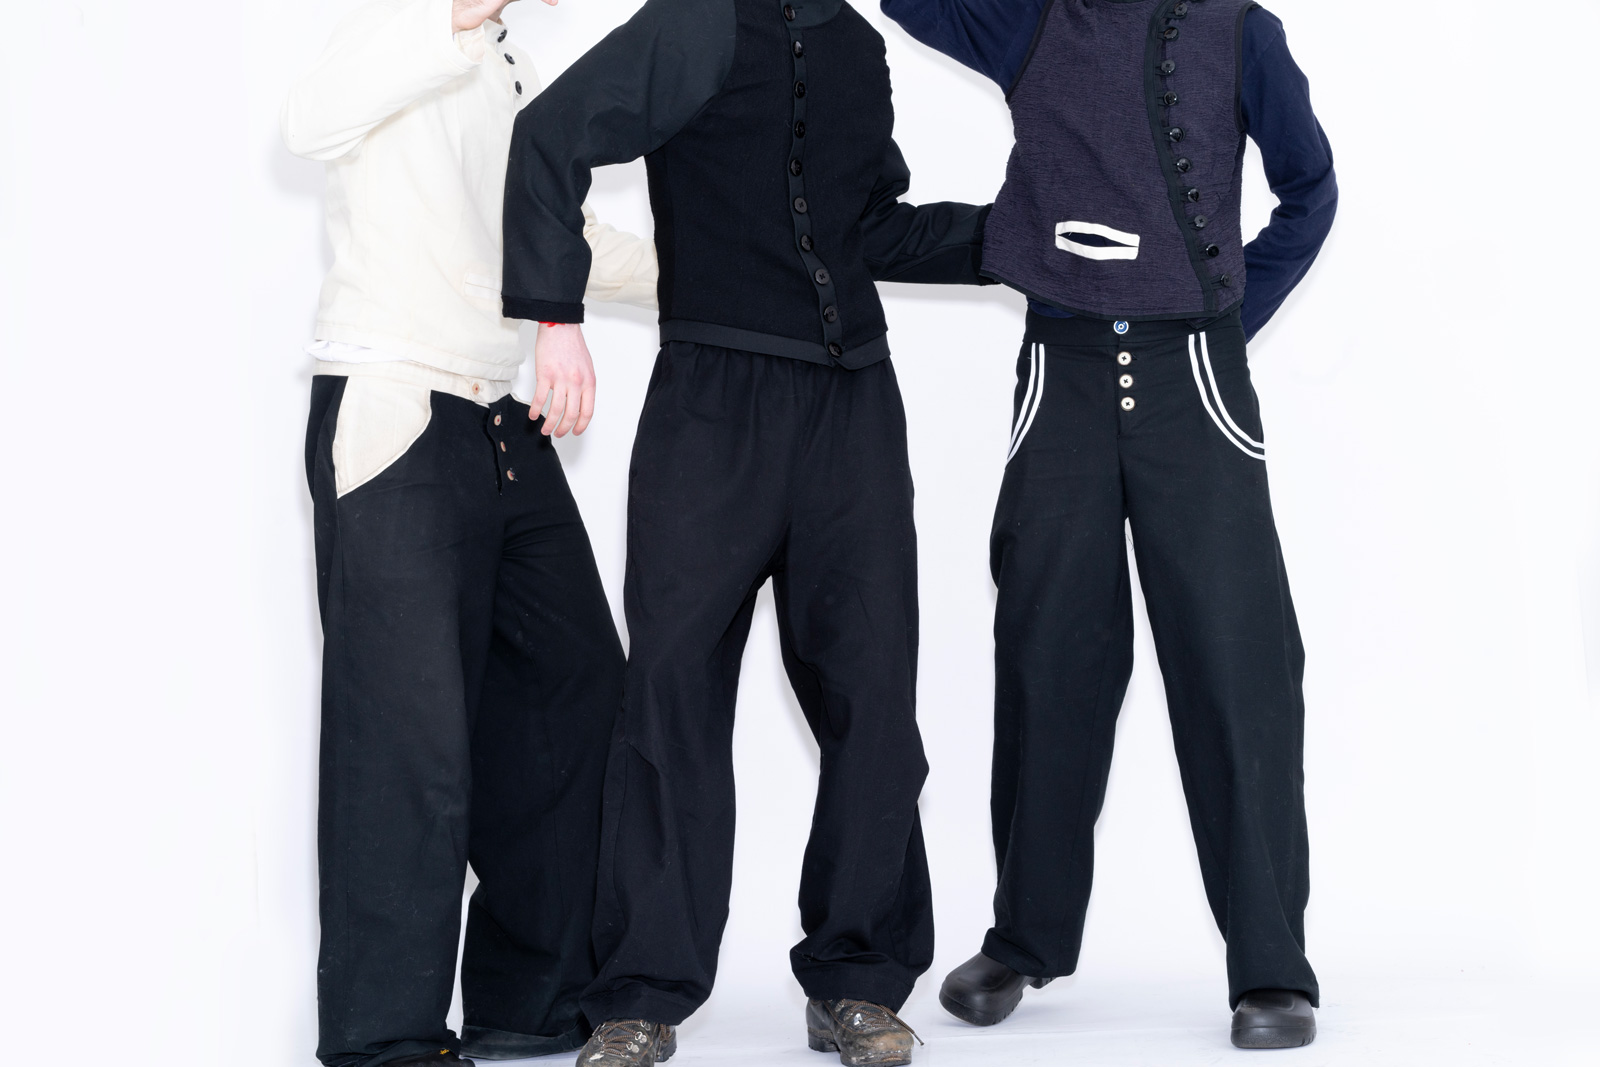
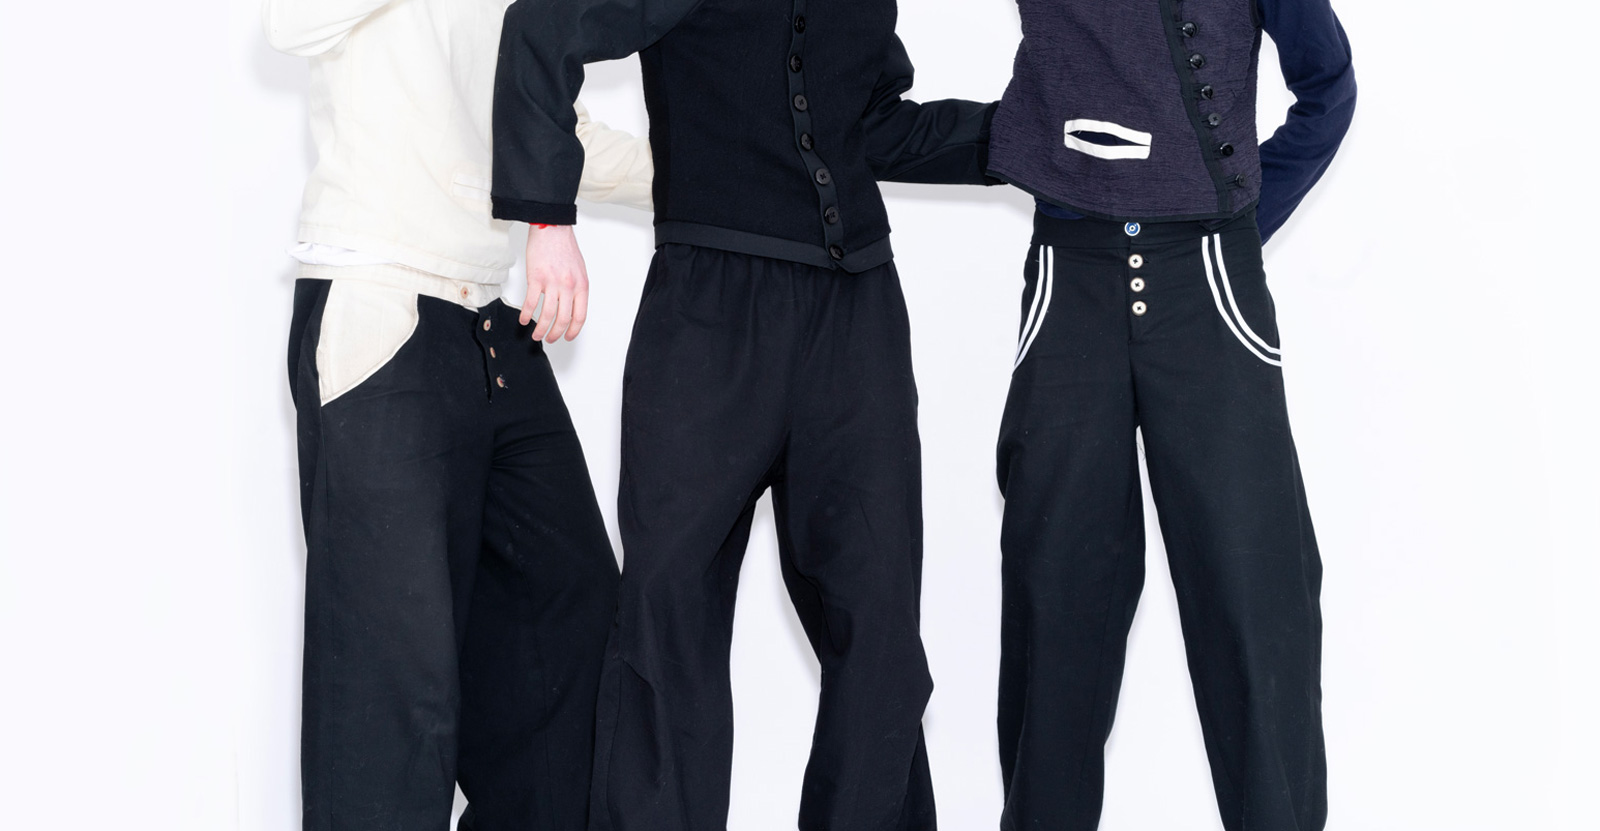
Add text to images on landing page and resize main image

diff --git a/src/app/page.tsx b/src/app/page.tsx
@@ -1,8 +1,8 @@
 import Navbar from '../components/Navbar';
 import Footer from '../components/Footer';
-import Image from 'next/image';
+import ImageWithText from '../components/ImageWithText';
 
-export default function Home() {
+const Home: React.FC = () => {
   return (
     <>
       <main 
@@ -19,63 +19,44 @@ export default function Home() {
         {/* Grid Container */}
         <div className='grid grid-cols-1 gap-7'>
           {/* First Row - 1 Wide */}
-          <div className='relative col-span-1'>
-            <Image
-              src='/images/landing.jpg'
-              alt='landing'
-              layout='responsive' // Responsive layout for scaling
-              width={1384}
-              height={720}
-              className='object-contain'
-            />
-          </div>
+          <ImageWithText 
+            src='/images/landing.jpg'
+            alt='landing'
+            text='SHOP THE COLLECTION'
+            textColor='text-[#F0F0F0]'
+            bgColor='bg-[#1D1F2C]'
+          />
 
           {/* Second Row - 2 Wide */}
           <div className='grid grid-cols-2 gap-7'>
-            <div className='relative'>
-              <Image
-                src='/images/dance.jpg' // Replace with your image path
-                alt='image 1'
-                layout='responsive'
-                width={1600}
-                height={2000}
-                className='object-contain'
-              />
-            </div>
-            <div className='relative'>
-              <Image
-                src='/images/MILOMODEL3.jpg' // Replace with your image path
-                alt='image 2'
-                layout='responsive'
-                width={1600}
-                height={2000}
-                className='object-contain'
-              />
-            </div>
+            <ImageWithText 
+              src='/images/dance.jpg'
+              alt='image 1'
+              text='BALENCIAGA PROJECT'
+              textColor='text-[#00069E]' // Explicitly set color
+            />
+            <ImageWithText 
+              src='/images/MILOMODEL3.jpg'
+              alt='image 2'
+              text='SHOP'
+              textColor='text-[#92CE04]' // Different color for this image
+            />
           </div>
 
           {/* Third Row - 2 Wide */}
           <div className='grid grid-cols-2 gap-7'>
-            <div className='relative'>
-              <Image
-                src='/images/skip2.jpg' // Replace with your image path
-                alt='image 3'
-                layout='responsive'
-                width={1600}
-                height={2000}
-                className='object-contain'
-              />
-            </div>
-            <div className='relative'>
-              <Image
-                src='/images/skip3.jpg' // Replace with your image path
-                alt='image 4'
-                layout='responsive'
-                width={1600}
-                height={2000}
-                className='object-contain'
-              />
-            </div>
+            <ImageWithText 
+              src='/images/skip2.jpg'
+              alt='image 3'
+              text='GENERAL WORKS'
+              textColor='text-[#D703A0]' // Different color for this image
+            />
+            <ImageWithText 
+              src='/images/skip3.jpg'
+              alt='image 4'
+              text='COLOUR PROJECT'
+              textColor='text-[#E12D04]' // Different color for this image
+            />
           </div>
         </div>
       </main>
@@ -83,3 +64,5 @@ export default function Home() {
     </>
   );
 }
+
+export default Home;

diff --git a/src/components/ImageWithText.tsx b/src/components/ImageWithText.tsx
@@ -1,0 +1,33 @@
+// components/ImageWithText.tsx
+import Image from 'next/image';
+
+interface ImageWithTextProps {
+  src: string;
+  alt: string;
+  text: string;
+  textColor: string;
+  bgColor?: string;
+}
+
+const ImageWithText: React.FC<ImageWithTextProps> = ({ src, alt, text, textColor, bgColor }) => {
+  return (
+    <div className='relative'>
+      <Image
+        src={src}
+        alt={alt}
+        layout='responsive'
+        width={1600}
+        height={2000}
+        className='object-contain'
+      />
+      <div 
+        className={`absolute bottom-24 left-1/2 transform -translate-x-1/2 font-bold text-3xl ${textColor} whitespace-nowrap text-center ${bgColor ? bgColor : ''}`}
+        style={bgColor ? { backgroundColor: bgColor } : {}}
+      >
+        {text}
+      </div>
+    </div>
+  );
+};
+
+export default ImageWithText;
